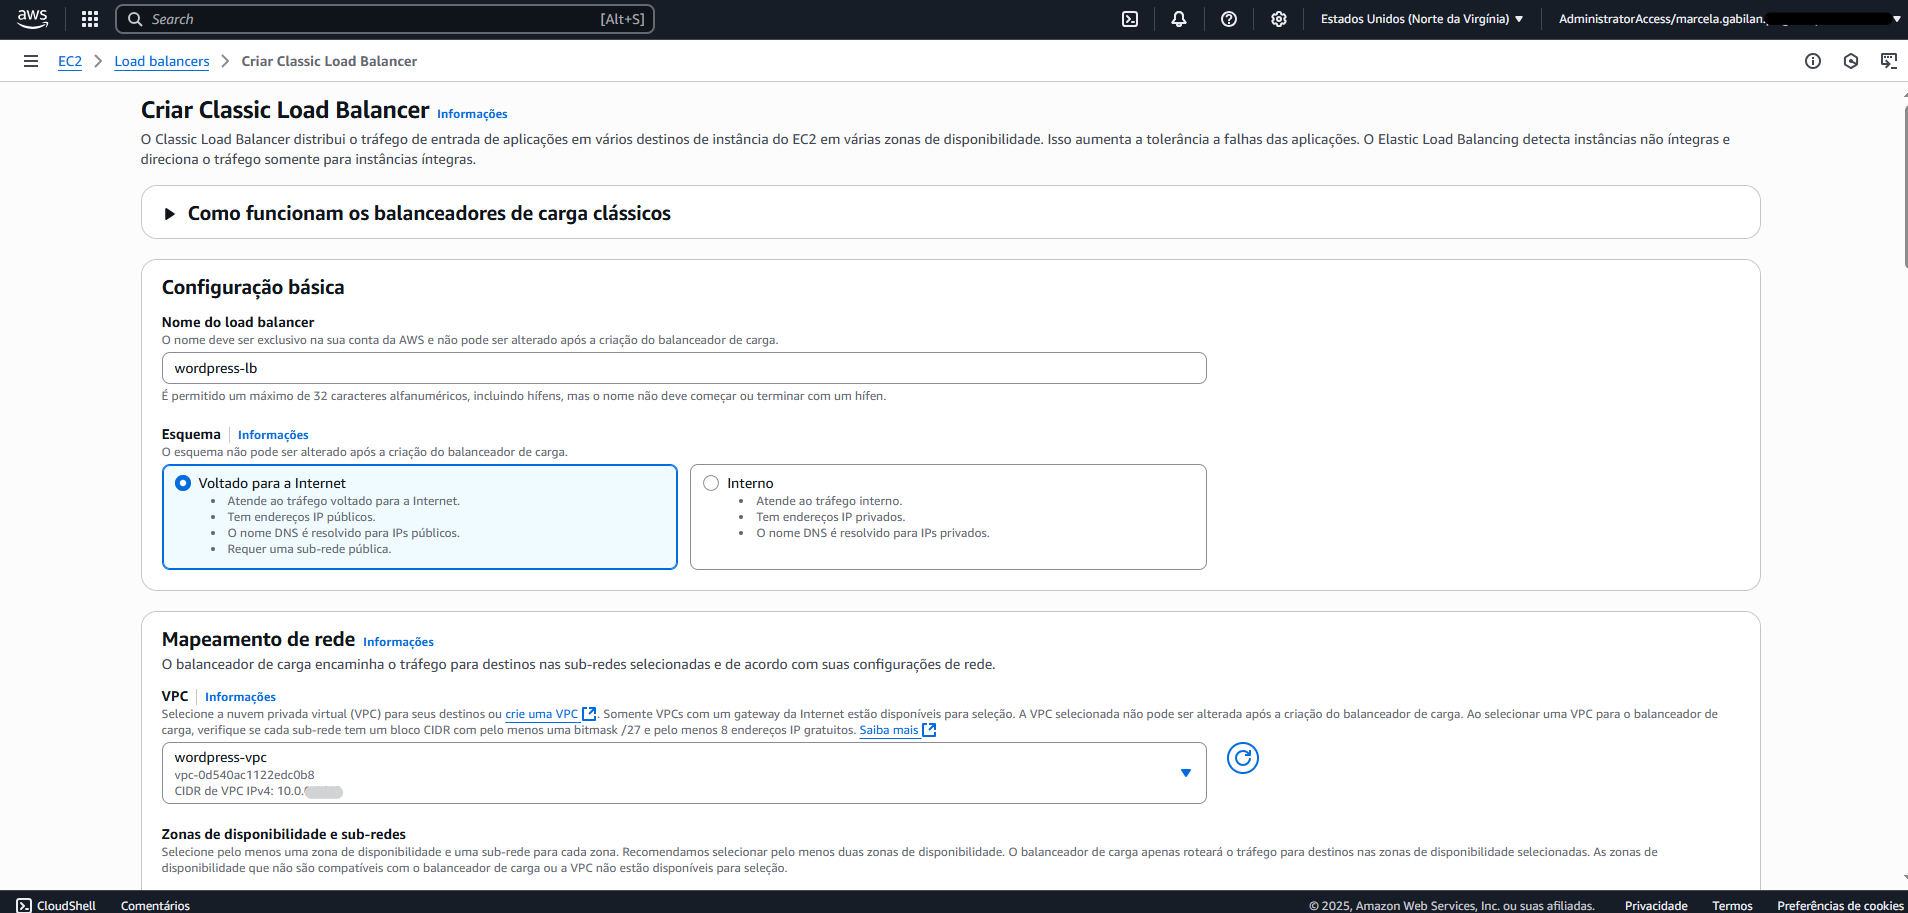
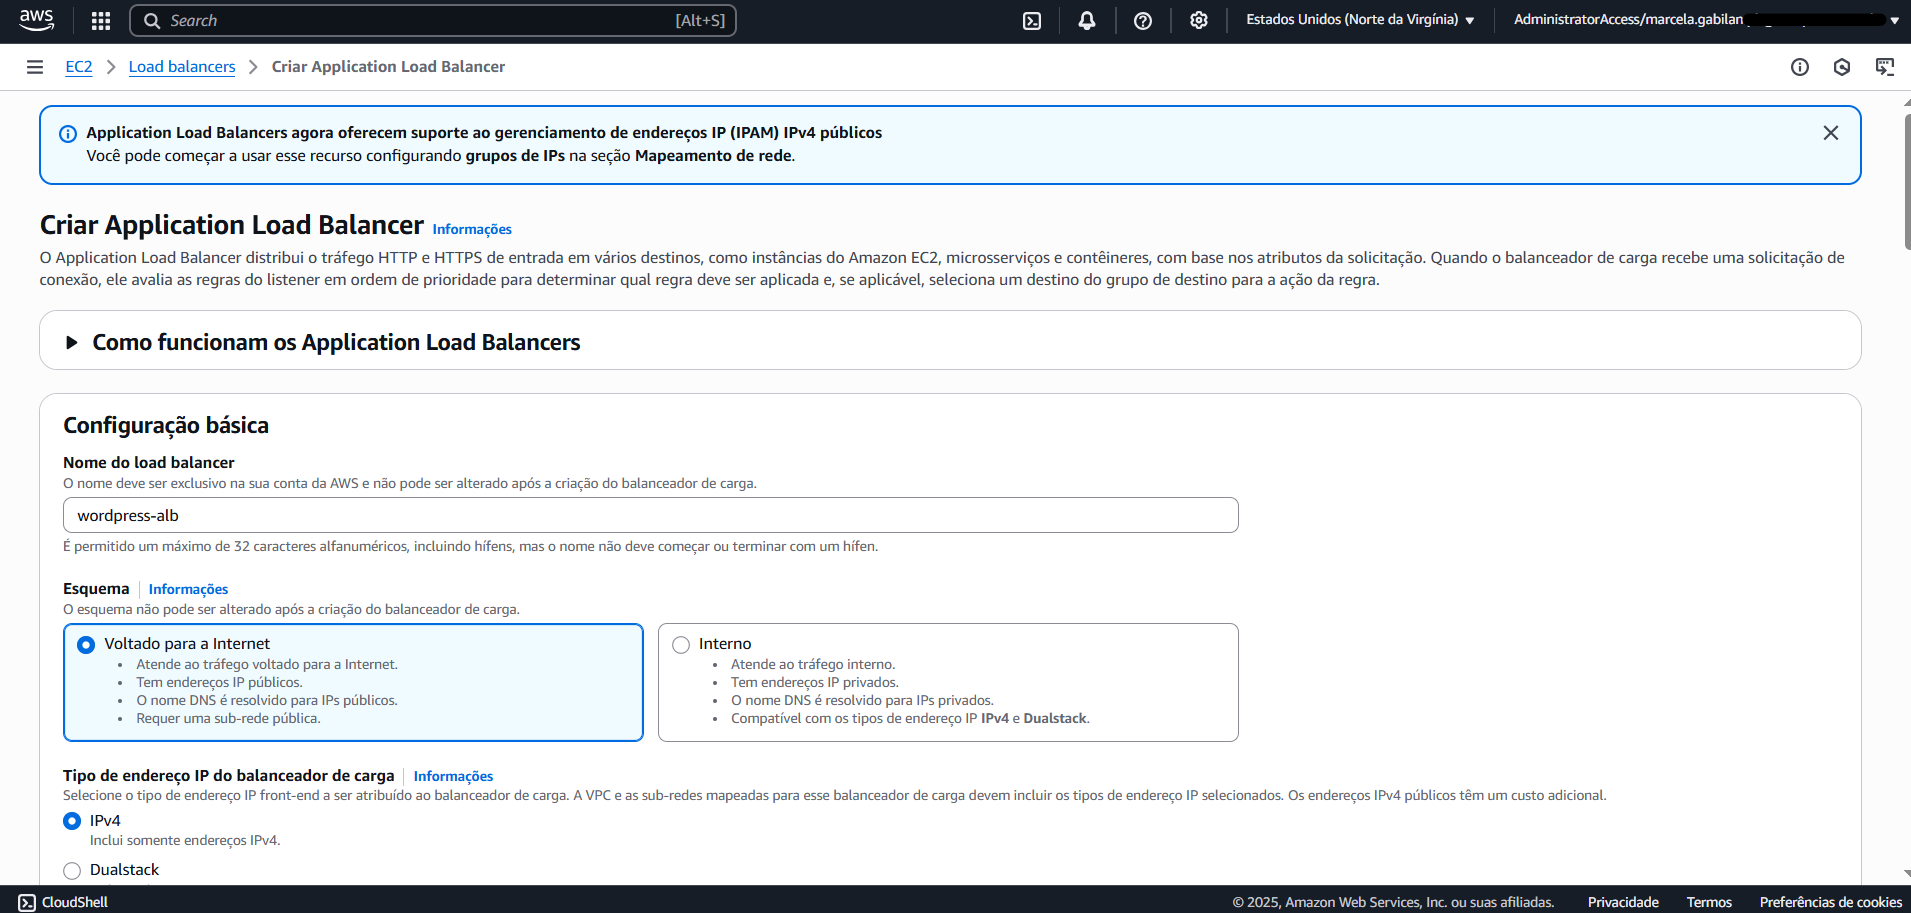
Etapa 08 - Testes da Infraestrutura

Changed region(s): [[0.0, 0.0, 1.0, 1.0]]

diff --git a/etapa-06-load-balancer.md b/etapa-06-load-balancer.md
@@ -1,6 +1,6 @@
-# Etapa 06 – Criar o Load Balancer (Classic LB)
+# Etapa 06 – Criar o Load Balancer (Application LB)
 
-Nesta etapa, será criado um **Classic Load Balancer** que distribuirá o tráfego entre as instâncias EC2. Ele garantirá:
+Nesta etapa, será criado um **Application Load Balancer** que distribuirá o tráfego entre as instâncias EC2. Ele garantirá:
 - Alta disponibilidade entre múltiplas zonas de disponibilidade
 - Monitoramento da integridade das instâncias
 - Redirecionamento automático em caso de falha
@@ -15,37 +15,34 @@ Nesta etapa, será criado um **Classic Load Balancer** que distribuirá o tráfe
 
 ### 2. Escolher tipo de Load Balancer
 
-1. Clique para **expandir** a seção do **Classic Load Balancer – geração anterior**
-2. Selecione **Classic Load Balancer**
-3. Clique em **Criar**
+1. Selecione **Application Load Balancer**
+2. Clique em **Criar**
 
 ![Print da seleção do tipo Classic Load Balancer](img/46-etapa6-LB.png)
 
 ### 3. Configuração do Load Balancer
 
-1. **Nome do balanceador de carga:** `wordpress-lb`
+1. **Nome do balanceador de carga:** `wordpress-alb`
 2. **Esquema:** Selecione **Voltado para a Internet**
-3. **VPC:** Selecione a **VPC wordpress-vpc** criada na Etapa 01
 
 ![Print da tela de nome e esquema Classic Load Balancer](img/47-etapa6-LB.png)
 
 ### 4. Selecionar zonas de disponibilidade
 
-1. Marque as zonas **us-east-1a** e **us-east-1b**
-2. Em cada zona, selecione a **sub-rede pública** correspondente:
+1. **VPC:** Selecione a **VPC wordpress-vpc** criada na Etapa 01
+2. Marque as zonas **us-east-1a** e **us-east-1b**
+3. Em cada zona, selecione a **sub-rede pública** correspondente:
    - `wordpress-subnet-public1-us-east-1a`
    - `wordpress-subnet-public2-us-east-1b`
-3. Grupos de segurança: `lb-sg`
 
 ![Print da seleção das zonas e sub-redes públicas Classic Load Balancer](img/48-etapa6-LB.png)
 
-### 5. Configurar verificação de integridade (Health checks)
+### 5. Configurar roteamento
 
-1. Caminho de ping: `/index.php`
-2. Tempo limite de resposta: `5` segundos
-3. Intervalo de verificação: `15` segundos
-4. Tentativas com falha: `2`
-5. Tentativas bem-sucedidas: `3`
+1. Grupos de segurança: `lb-sg`
+2. Protocolo: **HTTP**
+3. Porta: **80**
+4. Ação Padrão (Target Group): `wordpress-tg`
 
 ![Print da tela de verificação de integridade Classic Load Balancer](img/49-etapa6-LB.png)
 
@@ -59,20 +56,15 @@ Nesta etapa, será criado um **Classic Load Balancer** que distribuirá o tráfe
 
 ---
 
-### ✅ Verificações obrigatórias
+## > Criar o Target Group
 
-- Verifique se o Load Balancer foi criado com sucesso
-- Verifique se as **zonas de disponibilidade**, **VPC** e **sub-redes públicas** estão corretas
-- Confirme que o **caminho de verificação de integridade** foi definido como `/index.php`
+1. Na tela de criação do Application Load Balancer, em **Listeners e roteamento**
 
-![Print da confirmação de criação Classic Load Balancer](img/51-etapa6-LB.png)
+2. Clique em **Criar grupo de destino**
 
----
-
-### 📌 Observações finais:
-
-- O **Classic Load Balancer (CLB)** não utiliza **Target Group**, diferente do Application Load Balancer (ALB). Portanto, não é necessário criar Target Group nesta etapa.
-
-- O **estado do Load Balancer ficará como “—”** até que uma instância EC2 esteja registrada e saudável, o que ocorrerá após a criação do Auto Scaling Group, na próxima etapa.
-
-- O caminho de verificação de integridade (Health Check) foi configurado para `/index.php`, pois é o ponto de entrada principal da aplicação WordPress. Se preferir, é possível usar `/` também.
+![Print da criação TG](img/51-etapa6-TG.png)
+![Print da criação TG](img/52-etapa6-TG.png)
+![Print da criação TG](img/53-etapa6-TG.png)
+![Print da criação TG](img/54-etapa6-TG.png)
+![Print da criação TG](img/55-etapa6-TG.png)
+![Print da criação TG](img/56-etapa6-TG.png)

diff --git a/etapa-05-launch-template-ec2.md b/etapa-05-launch-template-ec2.md
@@ -46,37 +46,39 @@ Nesta etapa, será criado um **Launch Template** para inicializar instâncias EC
 ```bash
 #!/bin/bash
 
-# Variáveis (substitua pelos valores reais antes da criação)
+# Variáveis
 EFS_FILE_SYSTEM_ID="<id_efs>"
 DB_HOST="<endpoint_rds>"
 DB_NAME="<nome_bd>"
 DB_USER="<usuario_bd>"
 DB_PASSWORD="<senha_bd>"
-DOCKER_COMPOSE_VERSION="v2.34.0"
 PROJECT_DIR="/home/ec2-user/wordpress"
 EFS_MOUNT_DIR="/mnt/efs"
 
 # Atualizações e instalação do Docker
 yum update -y
 yum install -y docker
-systemctl start docker
-systemctl enable docker
-usermod -aG docker ec2-user
 
-# Instala Docker Compose
-curl -SL https://github.com/docker/compose/releases/download/${DOCKER_COMPOSE_VERSION}/docker-compose-linux-x86_64 -o /usr/local/bin/docker-compose
+# Inicia o serviço docker
+service docker start
+usermod -a -G docker ec2-user
+
+# Instala Docker Compose (versão atual recomendada)
+curl -SL https://github.com/docker/compose/releases/latest/download/docker-compose-linux-x86_64 -o /usr/local/bin/docker-compose
 chmod +x /usr/local/bin/docker-compose
 
-# Instala e monta o EFS
+# Instala EFS utils e monta o sistema
 yum install -y amazon-efs-utils
 mkdir -p ${EFS_MOUNT_DIR}
 mount -t efs ${EFS_FILE_SYSTEM_ID}:/ ${EFS_MOUNT_DIR}
 echo "${EFS_FILE_SYSTEM_ID}:/ ${EFS_MOUNT_DIR} efs defaults,_netdev 0 0" >> /etc/fstab
 
-# Permissões para WordPress
-chown -R 33:33 ${EFS_MOUNT_DIR}
+# Permissões para o EFS
+mkdir -p ${EFS_MOUNT_DIR}/html
+chown -R 33:33 ${EFS_MOUNT_DIR}/html
+chmod -R 775 ${EFS_MOUNT_DIR}/html
 
-# Prepara o projeto
+# Prepara o projeto WordPress
 mkdir -p ${PROJECT_DIR}
 cd ${PROJECT_DIR}
 
@@ -95,10 +97,10 @@ services:
     ports:
       - 80:80
     volumes:
-      - ${EFS_MOUNT_DIR}:/var/www/html
+      - ${EFS_MOUNT_DIR}/html:/var/www/html
 EOL
 
-# Inicializa WordPress
+# Inicia o container
 docker-compose up -d
 ```
 
@@ -114,10 +116,3 @@ docker-compose up -d
 - Verifique se os campos como **AMI**, **Security Group** e **Key Pair** estão corretos.
 
 ![Print da criação do Launch Template](img/45-etapa5-LAUNCH-TEMPLATE.png)
-
----
-
-### 📌 Observações finais
-
-- O **Amazon Linux 2023** usa `yum` como gerenciador de pacotes.
-- O comando `systemctl enable docker` garante que o serviço do Docker seja reiniciado automaticamente com a instância.

diff --git a/etapa-08-testes.md b/etapa-08-testes.md
@@ -1,0 +1,46 @@
+## ✅ Etapa 08 – Testes da Infraestrutura
+
+Nesta etapa, foram realizados testes para validar o correto funcionamento da aplicação WordPress implantada na infraestrutura AWS. Os testes confirmam que todos os componentes estão integrados e funcionando conforme esperado.
+
+---
+
+### 🔍 Testes realizados
+
+1. **Acesso à aplicação via navegador**  
+   Através do DNS público do Application Load Balancer, foi possível acessar o instalador do WordPress com sucesso.
+
+   ![Print do Teste](img/59-etapa8-TESTES.png)
+
+2. **Instalação e login no WordPress**  
+   A instalação foi concluída preenchendo os dados do site, nome de usuário, senha e e-mail. Após a instalação, foi possível realizar o login normalmente no painel administrativo do WordPress.
+
+   ![Print do Teste](img/60-etapa8-TESTES.png)
+   ![Print do Teste](img/61-etapa8-TESTES.png)
+   ![Print do Teste](img/62-etapa8-TESTES.png)
+
+3. **Criação e publicação de um post**  
+   Foi criado um post simples com título e uma imagem enviada através do painel.  
+   ✅ O post foi publicado com sucesso e pôde ser acessado externamente, validando a persistência via Amazon EFS e a conexão com o banco de dados RDS.
+
+![Print do Teste](img/63-etapa8-TESTES.png)
+![Print do Teste](img/64-etapa8-TESTES.png)
+
+---
+
+### 🔗 Endereço de acesso
+
+A aplicação foi acessada através do **DNS do Application Load Balancer** (exemplo):
+
+```txt
+http://wordpress-lb-1234567890.us-east-1.elb.amazonaws.com
+```
+> **Obs:** o DNS acima é apenas um exemplo. No teste real, foi utilizado o DNS gerado automaticamente ao criar o Load Balancer na AWS.
+
+## 🧪 Validação da infraestrutura
+- ✅ Balanceamento de carga: com o Application Load Balancer configurado corretamente, o tráfego foi distribuído entre as instâncias do Auto Scaling Group.
+
+- ✅ Conexão com o RDS: a aplicação armazenou e recuperou dados no banco de forma consistente.
+
+- ✅ Persistência com o EFS: arquivos enviados ao WordPress ficaram disponíveis, mesmo em reinicializações.
+
+- ✅ Escalabilidade: a estrutura está pronta para escalar horizontalmente, conforme o ajuste do Auto Scaling.

diff --git a/etapa-07-auto-scaling.md b/etapa-07-auto-scaling.md
@@ -14,7 +14,7 @@ Nesta etapa, será criado um **Auto Scaling Group (ASG)** que irá garantir a **
 
 - **Nome:** `wordpress-asg`
 - **Launch Template:** selecione o que foi criado (ex: `wordpress-template`)
-- **Versão:** `Default (padrão)`
+- **Versão:** `Latest (2)`
 - Clique em **Avançar**
 
 ![Print da criação do ASG](img/52-etapa7-ASG.png)
@@ -30,9 +30,8 @@ Nesta etapa, será criado um **Auto Scaling Group (ASG)** que irá garantir a **
 
 ### 4. Associar ao Load Balancer
 
-- Selecione: **Associar a um Load Balancer existente**
-- Tipo: `Classic Load Balancer`
-- Selecione o **Load Balancer** criado na etapa 6 - `wordpress-lb`
+- Tipo: `Application Load Balancer`
+- Selecione o **Target Group** criado na etapa 6 - `wordpress-tg`
 - Clique em **Avançar**
 
 ![Print da associação ao Load Balancer ao ASG](img/54-etapa7-ASG.png)
@@ -73,5 +72,4 @@ Nesta etapa, será criado um **Auto Scaling Group (ASG)** que irá garantir a **
 ### ✅ Observações finais
 
 - O Auto Scaling Group utilizará o **Launch Template** com User Data que instala e inicia o WordPress automaticamente.
-- As **políticas de escalabilidade (Scaling Policies)** serão criadas na **Etapa 08 – CloudWatch**.
 - O ASG manterá **duas instâncias sempre ativas** e poderá escalar até **quatro instâncias**, conforme definido nesta etapa.

diff --git a/README.md b/README.md
@@ -102,12 +102,13 @@ Configuração do Launch Template com EC2 em subnet privada, instalação via Us
 **[PASSO A PASSO COMPLETO DA ETAPA 05](etapa-05-launch-template-ec2.md)**
 
 ### ➤ Etapa 06 – Load Balancer  
-Criação de um Classic Load Balancer com verificações de integridade configuradas no caminho (`/index.php`) e associação direta às instâncias EC2.
+Criação de um Application Load Balancer voltado para a internet, configurado para escutar requisições na porta HTTP (80).
+Foi criado um Target Group do tipo instance com verificações de integridade configuradas no caminho (`/`). Esse grupo de destino foi associado ao Auto Scaling Group, garantindo o balanceamento automático de carga entre as instâncias EC2.
 
 **[PASSO A PASSO COMPLETO DA ETAPA 06](etapa-06-load-balancer.md)**
 
 ### ➤ Etapa 07 – Auto Scaling Group  
-Criação do Auto Scaling Group com Launch Template, e definição das regras de escalabilidade. 
+Criação do Auto Scaling Group com Launch Template. 
 
 **[PASSO A PASSO COMPLETO DA ETAPA 07](etapa-07-auto-scaling.md)**
 
